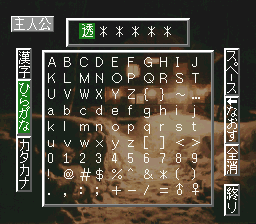
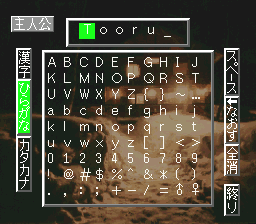
Update readmes after getting English script inserted

Changed region(s): [[0.0625, 0.3438, 0.125, 0.5938], [0.2812, 0.0938, 0.5312, 0.1875], [0.5625, 0.125, 0.6562, 0.1562]]

diff --git a/README.md b/README.md
@@ -3,6 +3,10 @@ In case anyone happens upon this repo, I wanted to put at the top that *I do not
 
 I had created a [translation patch](https://github.com/ButThouMust/otogirisou-english) for the Chunsoft sound novel Otogirisou on Super Famicom. At some point during the creation of that patch, I tried digging around in Chunsoft's next game in the same style, and found enough things in common between their internal workings that I wanted to work on it, too.
 
+![]("/repo%20images/title%20screen%20screenshot.png")
+![]("/repo%20images/file%20select%20screen%20translated.png")
+![]("/repo%20images/english%20script%20insertion.png")
+
 Kamaitachi no Yoru (かまいたちの夜) is a murder mystery sound novel that takes place in a ski lodge during a blizzard. If you had to translate the title using only English words, it would be *The Night of the Sickle Weasel*.
 
 Some innovations over Otogirisou:
@@ -34,8 +38,10 @@ SHA-256:	3228a3b35f7d234a7bf91f8159ccc56518199222e84d258c14a153f54f9fcbc7
 - Dump the compressed Japanese script.
 - Compress and reinsert modified versions of the Japanese script into the game.
   - I used this to test scripts for viewing unused content, in particular some silhouettes and visual effects.
-- Compress an English translated script into the format the game expects.
+- Insert and compress an English font and a translated script into the game.
 - Insert translated menu prompts for managing files, like "start game", "delete file", "change names", etc.
+- Edited the name entry screen to let the player input a name in English.
+  - This was more difficult than it sounds, interestingly. The short version is, the text encoding table and the visible graphics were stored separately.
 
 ### <ins>Graphics</ins>
 - Insert translated graphics for the stereo/mono option.
@@ -43,7 +49,6 @@ SHA-256:	3228a3b35f7d234a7bf91f8159ccc56518199222e84d258c14a153f54f9fcbc7
   - Exact translated graphics are not set in stone, but easily editable.
 - Find graphics for the boxes on the name entry screen.
 - Reverse engineer the format for how the end credits are displayed.
-- Replace the visible graphics for the characters you can select on the name entry screen (underlying character encodings are separate, but easy to change).
 
 ### <ins>Graphics compression formats</ins>
 | Data type | Decompressor | Recompressor |
@@ -57,36 +62,34 @@ I do want to at least try working on a compressor for the background tilesets, b
 
 My background tilemap recompressor saves a total of ~1 KB across all the tilemaps present in the game. I think it can still be improved, but I'm happy with it as it is now.
 
-The font for the grid of characters on the name entry screen, and some other graphics, have their own compression format (it's a flavor of LZSS). My recompressor saves about 700 bytes with the Japanese font data block (moot point, it's been replaced with an equivalent English data block), and over 1 KB total with all the game's other data sets in that format.
+The font graphics for the grid of characters on the name entry screen, and some other graphics, have their own compression format (it's a flavor of LZSS). My recompressor saves about 700 bytes with the Japanese font data block (moot point, it's been replaced with an equivalent English data block), and over 1 KB total with all the game's other data sets in that format.
 
 At first, I was expecting to not create a recompressor for the silhouettes' graphics data, because none of them contain any text to translate. However, I discovered some ways to improve the existing compression, which altogether let me free up ~6.9 KB from recompressing the existing data.
 
 ## Priorities for the project:
-Currently, the main priority is taking my map of what are the purposes for all/most of the data blocks in the ROM, and using it to figure out where and how to move stuff around to dedicate as much space as possible for the script.
-- Beyond a few blocks of *outright* existing empty space, there are also *implicit* blocks of empty space that I can free up thanks to making better compressor tools.
-- It could be possible to fit the translation into a 3 MB file (same as original) if I move stuff around cleverly.
+I have recompressed and/or rearranged enough data in the ROM to allow fitting an English script and font into it. Moreover, I succeeded at a self-imposed challenge to do so without needing to expand the ROM like I had to for Otogirisou.
 
-As of August 19, 2025, I have a working and repeatable process for taking the new English font, generating the graphics for the grid of characters on the name entry screen, compressing them into the correct format, and inserting into the game. The result ended up being much smaller than the Japanese equivalent and, theoretically speaking, frees up enough space to let me start playtesting the script. I can say for sure once I make ASM files to do some more repointing.
-
-### <ins>English font</ins>
-- Insert a new font for the game. (**simple**)
-- Update the internal character encoding values for the selectable characters on the name entry screen (**easy**)
+I can technically start playtesting the script and marking pages as needing reformatting or not. However, I first need to do ASM hacks for the text printing logic and the systems related to letting the player enter a name.
 
 ### <ins>English script</ins>
+![]("/repo%20images/english%20script%20insertion.png")
+
+- Create ASM hacks to make the English text look better on screen. (**medium**)
+  - More suitable logic for automatically line breaking English text (see above).
+  - [Optional] Text kerning, to fix character pairs like `ac` above or `at`.
+- Once that's done, playtest the script. (**simple, but tedious**)
 - Fully translate the Japanese script to English. (**medium**)
   - Translation mostly done, but quite a few places are difficult to translate.  More details in the [spoiler folder's readme](spoilers/README.md).
   - If I could, I'd like to reach out to the Project Kamai team and ask for permission to use their translation choices for certain parts.
     - A Wayback Machine snapshot of their website had an email address for contacting them. Perhaps as expected, though, sending a message to it gave me an error that the address doesn't exist anymore.
-- Once enough space is carved out for it, format and insert an English-translated script. (**medium**)
-  - Playtest the script. (**simple, but tedious**)
-  - Edit the systems for printing Japanese text to better suit English text. (**unsure, but putting medium for now**)
 
 ### <ins>Name entry screen</ins>
 #### Change logic for menu
-The Japanese game allows entering a name with a combination of kanji, hiragana, or katakana. Each category has 488, 90, and 90 slots in their respective grids of characters. 488 is a bit too many for English, so I've been trying to see if it's possible to make an ASM hack to only allow access to the blocks for hiragana or katakana. (**medium**)
+The Japanese game allows entering a name with a combination of kanji, hiragana, or katakana. Each category has 1160, 90, and 90 slots in their respective grids of characters. 1160 is much too many for English!
 
+I want to see if it's possible to make an ASM hack to only allow access to the blocks for hiragana or katakana. (**medium**)
 For example:
-- Replace hiragana with the standard English alphabet.
+- Replace hiragana with the standard alphabet, digits, punctuation.
 - Replace katakana with accented letters and other special characters.
 - Dummy out the kanji category, and make the player unable to access or interact with it.
 

diff --git a/repo images/README.md b/repo images/README.md
@@ -4,11 +4,23 @@
 
 ## Dumping and reinsertion of Japanese script
 ![](/repo%20images/script%20dump%20screen%20capture.png)
+
+An inserted English script:\
+![](/repo%20images/english%20script%20insertion.png)
+
+A modified Japanese script I made a while ago to test the script inserter and view unused silhouettes:\
 ![](/repo%20images/script%20insertion%20testing.png)
+
+## File select screen
+![](/repo%20images/file%20select%20screen%20translated.png)
+
+## Chapter list
+![](/repo%20images/chapter%20list%20-%20in%20gameplay.png)
+![](/repo%20images/chapter%20list%20-%20resuming%20file.png)
 
 ## File management prompts
 ![](/repo%20images/file%20prompt%20main%20screen%20new%20file.png)
-![](/repo%20images/file%20prompt%20main%20screen%20longer%20name.png)
+![](/repo%20images/file%20prompt%20main%20screen%20existing%20file.png)
 ![](/repo%20images/file%20prompt%20continue%20after%20ending.png)
 ![](/repo%20images/file%20prompt%20resume%20from%20last%20save.png)
 ![](/repo%20images/file%20prompt%20delete.png)
@@ -28,6 +40,3 @@
 ![](/repo%20images/bad%20end%20graphic.png)
 ![](/repo%20images/end%20credits%20gfx%20data.png)
 ![](/repo%20images/name%20entry%20button%20text.png)
-![](/repo%20images/stereo%20mono%20translated%20buttons.png)
-
-Note the `Stereo` and `Mono` in the bottom left corner, to replace ステレオ and モノラル.
